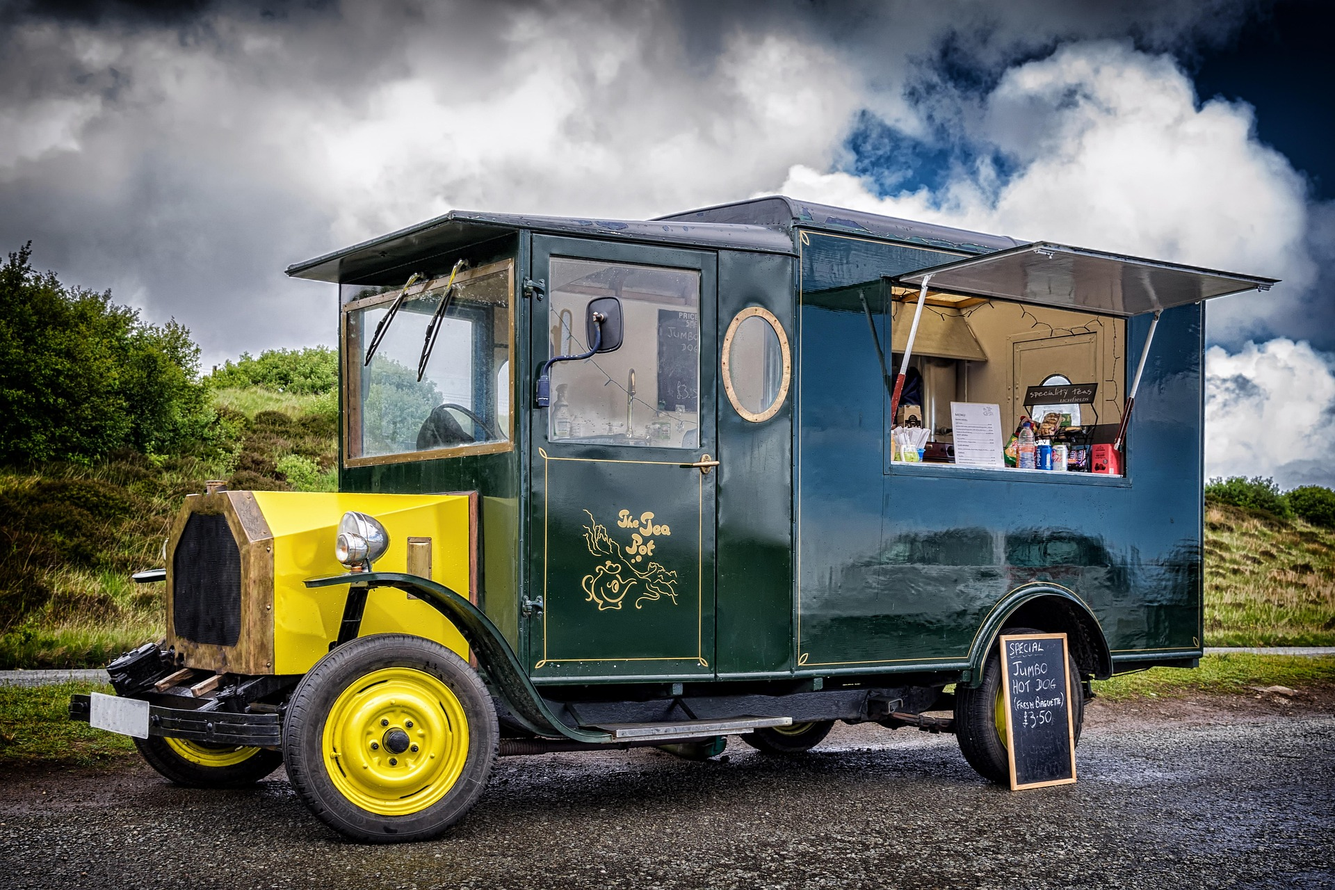
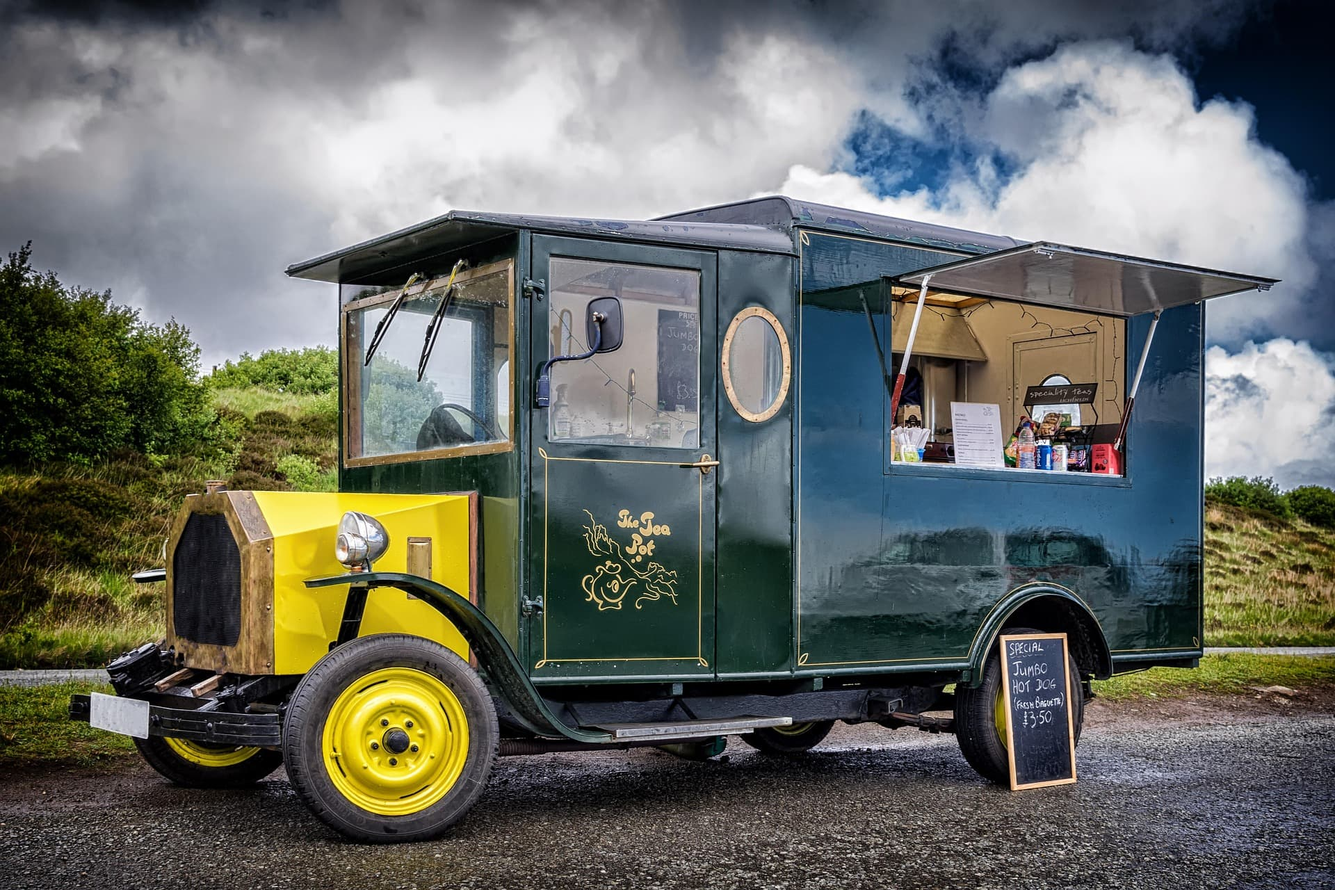
feat: mejorar la accesibilidad y estructura de la página

Changed region(s): [[0.4375, 0.5938, 0.5, 0.6875]]

diff --git a/pages/menu.html b/pages/menu.html
@@ -4,6 +4,8 @@
 <head>
     <meta charset="UTF-8">
     <meta name="viewport" content="width=device-width, initial-scale=1.0">
+    <meta name="description"
+        content="Menú de QuimiBurgers, escrollea por nuestro menú gastronómico lleno de variedad de sabores de hamburguesas artesanales en San Nicolas de los Arroyos">
     <title>QuimiBurgers | Menú</title>
     <link rel="stylesheet" href="styles/style.css">
 </head>
@@ -14,38 +16,38 @@
             <ul>
                 <li><a href="../index.html" alt="Ir al Inicio">Inicio</a></li>
                 <li><a href="#" alt="Ir al Menú">Menú</a></li>
+                <li><a href="./prices.html" alt="Ir a Precios">Precios</a></li>
                 <li><a href="./about-us.html" alt="Ir a Sobre Nosotros">Sobre Nosotros</a></li>
                 <li><a href="./contact.html" alt="Ir a Contacto">Contacto</a></li>
-                <li><a href="./prices.html" alt="Ir a Precios">Precios</a></li>
             </ul>
         </nav>
     </header>
     <main>
         <h1>Nuestro Menú:</h1>
-        <section>
+        <section aria-roledescription="Menú de hamburguesas de QuimiBurgers">
             <div>
-                Oxiburger
-                <img src="../assets/images/burger4.jpg"
+                <h2>Oxiburger</h2>
+                <img src="../assets/images/Oxiburger.jpg"
                     alt="Oxiburger en un plato hecha con carne smash, queso cheddar y bacon bits">
-                (Medallón de carne smash con queso cheddar y bacon bits)
+                <p>(Medallón de carne smash con queso cheddar y bacon bits)</p>
             </div>
             <div>
-                Heliburger
-                <img src="../assets/images/burger2.jpg"
+                <h2>Heliburger</h2>
+                <img src="../assets/images/Heliburger.jpg"
                     alt="Heliburger en un plato hecha con lentejas, queso brie, lechuga, tomate y salsa especial quimi">
-                (Medallón de lentejas con queso brie, lechuga, tomate y salsa especial quimi)
+                <p>(Medallón de lentejas con queso brie, lechuga, tomate y salsa especial quimi)</p>
             </div>
             <div>
-                Carboburger
-                <img src="../assets/images/burger1.jpg"
+                <h2>Carboburger</h2>
+                <img src="../assets/images/Carboburger.jpg"
                     alt="Carboburger en un plato hecha con carne smash, queso fuet, cebolla caramelizada, barbacoa y salsa picante">
-                (Medallón de carne smash con queso fuet, cebolla caramelizada, barbacoa y salsa picante)
+                <p>(Medallón de carne smash con queso fuet, cebolla caramelizada, barbacoa y salsa picante)</p>
             </div>
             <div>
-                Hidroburger
-                <img src="../assets/images/burger3.jpg"
+                <h2>Hidroburger</h2>
+                <img src="../assets/images/Hidroburger.jpg"
                     alt="Hidroburger en un plato hecha con carne smash, queso brie, lechuga, tomate, jamón y salsa especial quimi">
-                (Medallón de carne smash con queso brie, lechuga, tomate, jamón y salsa especial quimi)
+                <p>(Medallón de carne smash con queso brie, lechuga, tomate, jamón y salsa especial quimi)</p>
             </div>
         </section>
     </main>

diff --git a/pages/contact.html b/pages/contact.html
@@ -4,6 +4,8 @@
 <head>
     <meta charset="UTF-8">
     <meta name="viewport" content="width=device-width, initial-scale=1.0">
+    <meta name="description"
+        content="Contacta con QuimiBurgers, informate cómo comunicarte con nosotros para pedidos, consultas o sugerencias sobre nuestras hamburguesas artesanales en San Nicolas de los Arroyos">
     <title>QuimiBurgers | Contacto</title>
     <link rel="stylesheet" href="styles/style.css">
 </head>
@@ -14,9 +16,9 @@
             <ul>
                 <li><a href="../index.html" alt="Ir al Inicio">Inicio</a></li>
                 <li><a href="./menu.html" alt="Ir al Menú">Menú</a></li>
+                <li><a href="./prices.html" alt="Ir a Precios">Precios</a></li>
                 <li><a href="./about-us.html" alt="Ir a Sobre Nosotros">Sobre Nosotros</a></li>
                 <li><a href="#" alt="Ir a Contacto">Contacto</a></li>
-                <li><a href="./prices.html" alt="Ir a Precios">Precios</a></li>
             </ul>
         </nav>
     </header>
@@ -24,7 +26,7 @@
         <section>
             <h1>Contactanos!</h1>
             <h2>Tu retroalimentación nos ayuda a crecer y mejorar nuestros servicios.</h2>
-            <form>
+            <form action="#" method="post">
                 <label for="nombre">Nombre</label>
                 <input type="text" id="nombre" name="nombre" placeholder="Tu nombre" required>
 
@@ -38,16 +40,20 @@
                 <input type="tel" id="telefono" name="telefono" placeholder="Ej: 1123456789" required>
 
                 <label for="comentario">Comentario</label>
-                <input type="text-area" id="comentario" name="comentario" placeholder="Tu comentario" required>
+                <textarea id="comentario" name="comentario" rows="6" placeholder="Tu comentario" required></textarea>
 
                 <button type="submit" aria-label="Enviar formulario">Enviar</button>
             </form>
         </section>
         <section>
-            <img src="../assets/images/QuimiBurgersShop.png"
-                alt="Exterior de Quimiburgers con clientes comiendo hamburguesas frente al local">
+            <h2>¿Dónde nos encontramos?</h2>
+            <p>Nos puedes encontrar en Ameguino 357, centro de San Nicolas de los Arroyos o en nuestro carrito para
+                eventos.</p>
+            <iframe
+                src="https://www.google.com/maps/embed?pb=!1m18!1m12!1m3!1d3333.31607351621!2d-60.21984772358059!3d-33.33669139169666!2m3!1f0!2f0!3f0!3m2!1i1024!2i768!4f13.1!3m3!1m2!1s0x95b76785fcbb31f5%3A0x9cc98506c27d6529!2sAmeghino%20357%2C%20B2900%20San%20Nicol%C3%A1s%20de%20Los%20Arroyos%2C%20Provincia%20de%20Buenos%20Aires!5e0!3m2!1ses-419!2sar!4v1791324170357!5m2!1ses-419!2sar"
+                style="border:0;" allowfullscreen="" loading="lazy"
+                referrerpolicy="strict-origin-when-cross-origin"></iframe>
         </section>
-
     </main>
     <footer>
         <p>&copy; 2026 QuimiBurgers. Todos los derechos reservados.</p>

diff --git a/pages/about-us.html b/pages/about-us.html
@@ -4,6 +4,8 @@
 <head>
     <meta charset="UTF-8">
     <meta name="viewport" content="width=device-width, initial-scale=1.0">
+    <meta name="description"
+        content="Sobre QuimiBurgers, descubrí nuestra identidad y la calidad de nuestras hamburguesas artesanales en San Nicolas de los Arroyos">
     <title>QuimiBurgers | Sobre Nosotros</title>
     <link rel="stylesheet" href="styles/style.css">
 </head>
@@ -14,25 +16,23 @@
             <ul>
                 <li><a href="../index.html" alt="Ir al Inicio">Inicio</a></li>
                 <li><a href="./menu.html" alt="Ir al Menú">Menú</a></li>
+                <li><a href="./prices.html" alt="Ir a Precios">Precios</a></li>
                 <li><a href="#" alt="Ir a Sobre Nosotros">Sobre Nosotros</a></li>
                 <li><a href="./contact.html" alt="Ir a Contacto">Contacto</a></li>
-                <li><a href="./prices.html" alt="Ir a Precios">Precios</a></li>
             </ul>
         </nav>
     </header>
     <main>
         <section>
             <h1>¿Quíenes somos?</h1>
-            <p>Somos un emprendimiento de amantes de las hamburguesas artesanales </p>
+            <p>Somos un emprendimiento de amantes de las hamburguesas artesanales</p>
+            <h2>Ingredientes de Alta Calidad</h2>
+            <p>Nuestros productos están elaborados con ingredientes premium de la más alta calidad, minuciosamente
+                seleccionados para ofrecer la mejor experiencia gastronómica.</p>
         </section>
         <section>
-            <h2>¿Dónde nos encontramos?</h2>
-            <p>Nos puedes encontrar en Ameguino 357, centro de San Nicolas de los Arroyos o en nuestro carrito para
-                eventos.</p>
-            <iframe
-                src="https://www.google.com/maps/embed?pb=!1m18!1m12!1m3!1d3333.31607351621!2d-60.21984772358059!3d-33.33669139169666!2m3!1f0!2f0!3f0!3m2!1i1024!2i768!4f13.1!3m3!1m2!1s0x95b76785fcbb31f5%3A0x9cc98506c27d6529!2sAmeghino%20357%2C%20B2900%20San%20Nicol%C3%A1s%20de%20Los%20Arroyos%2C%20Provincia%20de%20Buenos%20Aires!5e0!3m2!1ses-419!2sar!4v1791324170357!5m2!1ses-419!2sar"
-                style="border:0;" allowfullscreen="" loading="lazy"
-                referrerpolicy="strict-origin-when-cross-origin"></iframe>
+            <img src="../assets/images/QuimiBurgersShop.jpg"
+                alt="Exterior de Quimiburgers con clientes comiendo hamburguesas frente al local">
         </section>
         <section>
             <img src="../assets/images/QuimiBurgersFoodTruck.jpg" alt="Carrito de comida de QuimiBurgers en un evento">

diff --git a/pages/prices.html b/pages/prices.html
@@ -4,6 +4,8 @@
 <head>
     <meta charset="UTF-8">
     <meta name="viewport" content="width=device-width, initial-scale=1.0">
+    <meta name="description"
+        content="Precios de QuimiBurgers, conocé los precios de nuestras hamburguesas artesanales en San Nicolas de los Arroyos">
     <title>QuimiBurgers | Precios</title>
     <link rel="stylesheet" href="styles/style.css">
 </head>
@@ -14,16 +16,16 @@
             <ul>
                 <li><a href="../index.html" alt="Ir al Inicio">Inicio</a></li>
                 <li><a href="./menu.html" alt="Ir al Menú">Menú</a></li>
+                <li><a href="#" alt="Ir a Precios">Precios</a></li>
                 <li><a href="./about-us.html" alt="Ir a Sobre Nosotros">Sobre Nosotros</a></li>
                 <li><a href="./contact.html" alt="Ir a Contacto">Contacto</a></li>
-                <li><a href="#" alt="Ir a Precios">Precios</a></li>
             </ul>
         </nav>
     </header>
     <main>
         <section>
             <h1>Nuestros Precios</h1>
-            <table>
+            <table aria-roledescription="Precios de hamburguesas de QuimiBurgers">
                 <caption>Precios Quimiburgers</caption>
                 <thead>
                     <tr>
@@ -36,28 +38,28 @@
                 </thead>
                 <tbody>
                     <tr>
-                        <th scope="row">Oxiburger</td>
+                        <th scope="row">Oxiburger</th>
                         <td>$12000</td>
                         <td>$14000</td>
                         <td>$15000</td>
                         <td>$15500</td>
                     </tr>
                     <tr>
-                        <th scope="row">Heliburger</td>
+                        <th scope="row">Heliburger</th>
                         <td>$10000</td>
                         <td>$12000</td>
                         <td>$13000</td>
                         <td>$13500</td>
                     </tr>
                     <tr>
-                        <th scope="row">Carboburger</td>
+                        <th scope="row">Carboburger</th>
                         <td>$12500</td>
                         <td>$14500</td>
                         <td>$15500</td>
                         <td>$16000</td>
                     </tr>
                     <tr>
-                        <th scope="row">Hidroburger</td>
+                        <th scope="row">Hidroburger</th>
                         <td>$12500</td>
                         <td>$14500</td>
                         <td>$15500</td>

diff --git a/index.html b/index.html
@@ -4,6 +4,8 @@
 <head>
     <meta charset="UTF-8">
     <meta name="viewport" content="width=device-width, initial-scale=1.0">
+    <meta name="description"
+        content="Home de QuimiBurgers, conocé las mejores hamburguesas artesanales en San Nicolas de los Arroyos">
     <title>QuimiBurgers | Inicio</title>
     <link rel="stylesheet" href="styles/style.css">
 </head>
@@ -14,9 +16,9 @@
             <ul>
                 <li><a href="#" alt="Ir al Inicio">Inicio</a></li>
                 <li><a href="./pages/menu.html" alt="Ir al Menú">Menú</a></li>
+                <li><a href="./pages/prices.html" alt="Ir a Precios">Precios</a></li>
                 <li><a href="./pages/about-us.html" alt="Ir a Sobre Nosotros">Sobre Nosotros</a></li>
                 <li><a href="./pages/contact.html" alt="Ir a Contacto">Contacto</a></li>
-                <li><a href="./pages/prices.html" alt="Ir a Precios">Precios</a></li>
             </ul>
         </nav>
     </header>
@@ -33,7 +35,7 @@
         </section>
         <section>
             <video src="./assets/videos/eating-burger.mp4" controls muted
-                alt="Video de un persona comiendo una QuimiBurger"></video>
+                alt="Video de un mujer comiendo una QuimiBurger"></video>
         </section>
         <section>
             <h3>¡No te vuelvas a quedar con hambre!</h3>
